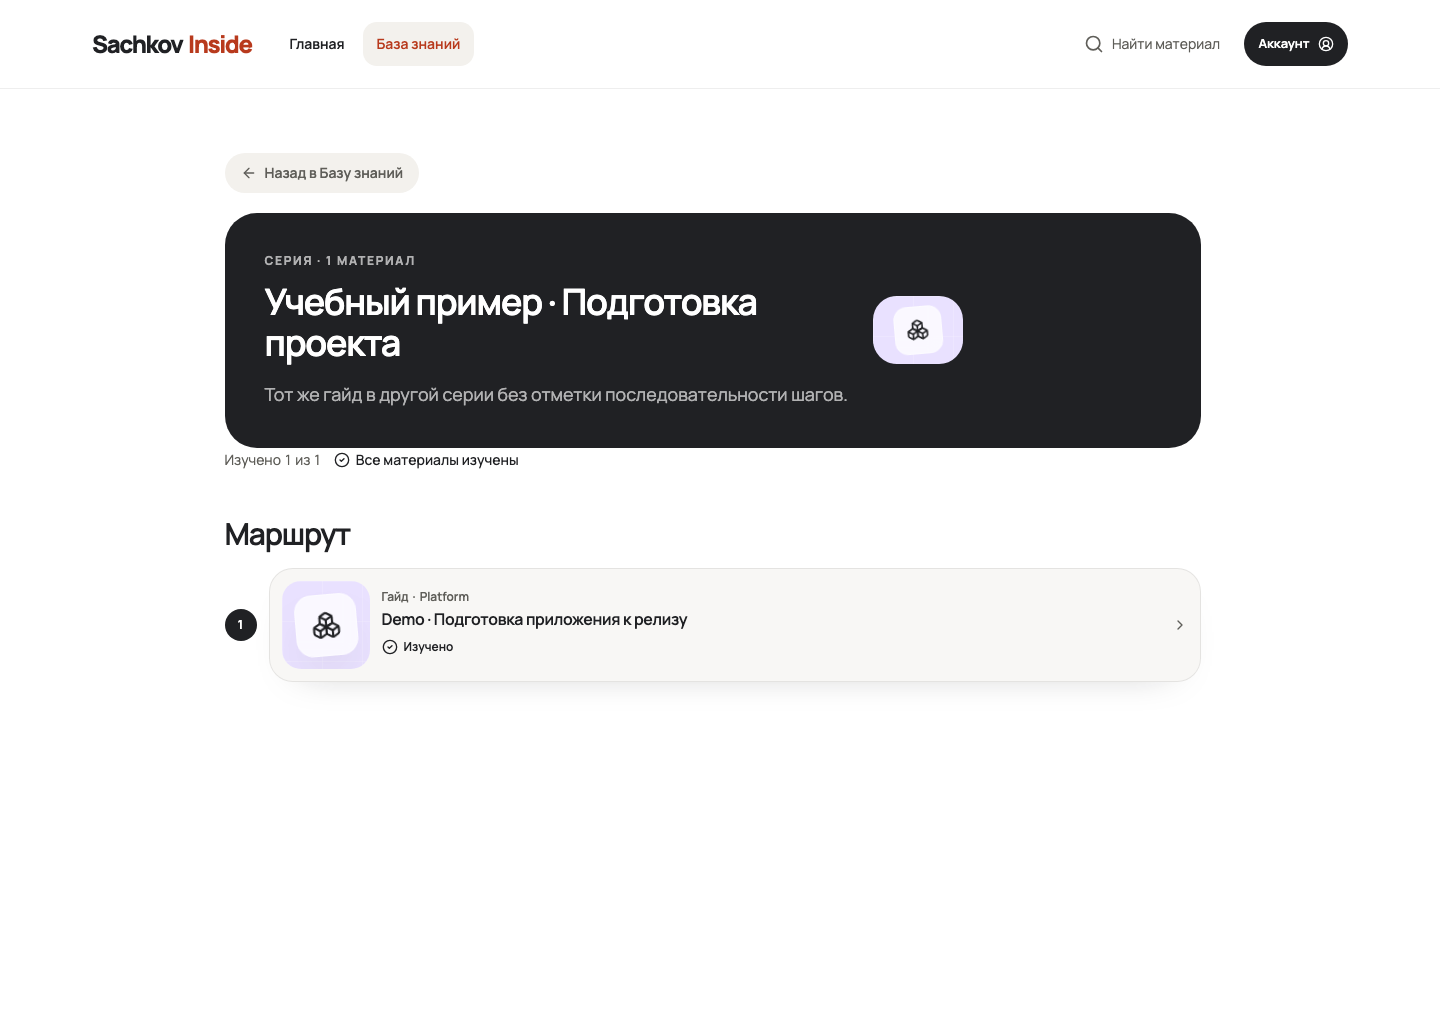
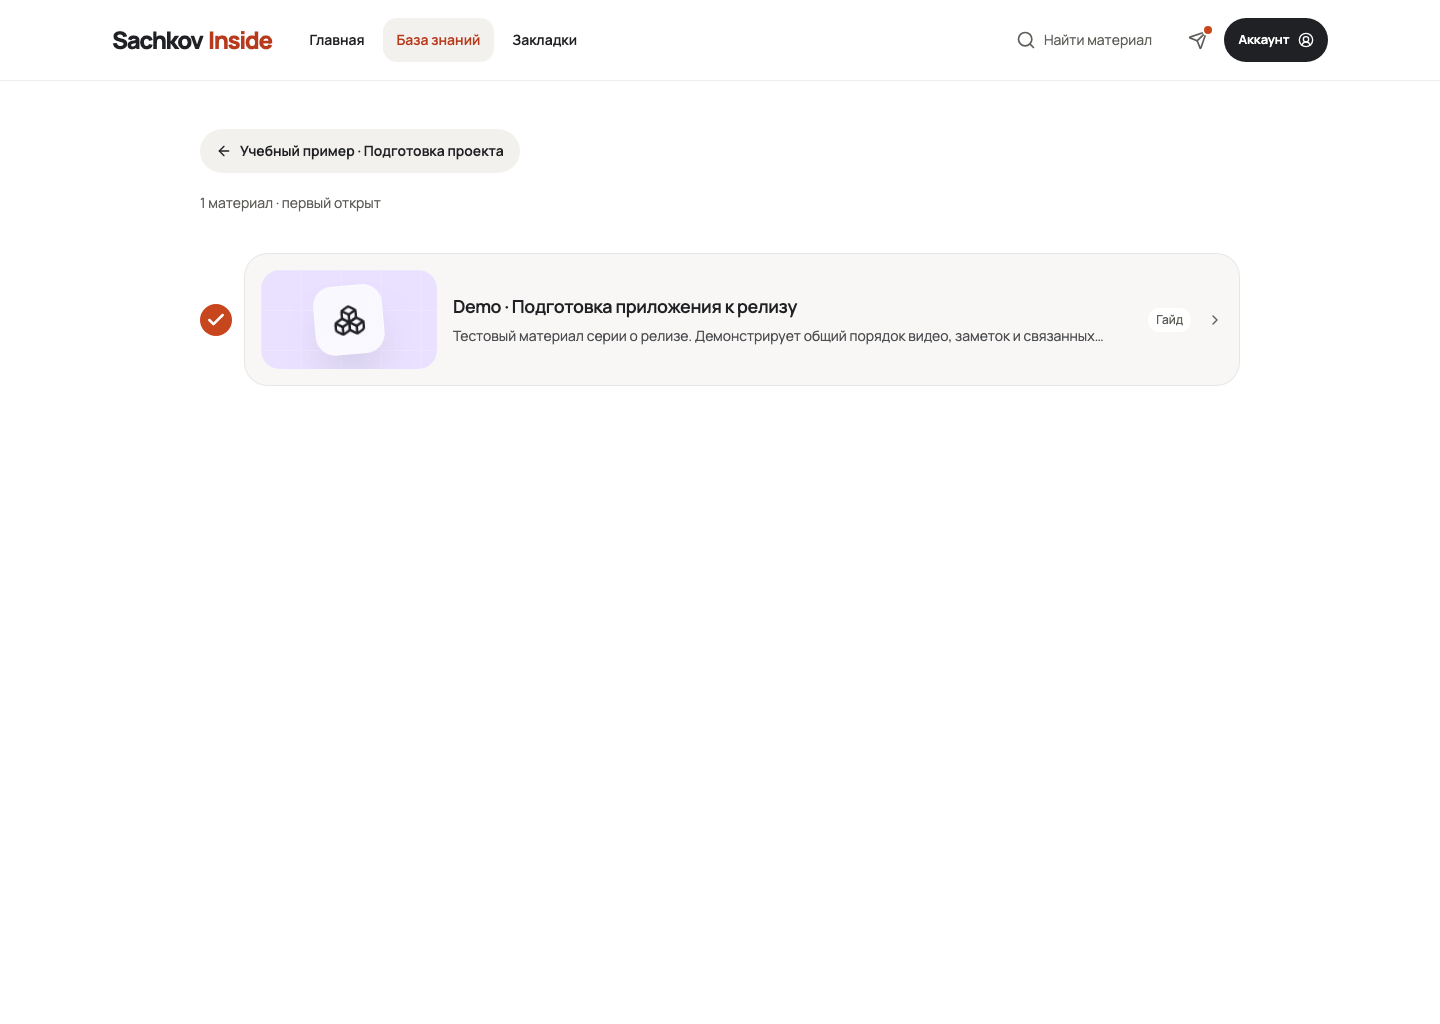
Проверять изученное в маршруте галочкой строки, а не подписью карточки (#529)
В программе руководства отметку показывает галочка вместо номера строки; подписи
«Изучено» на карточке там нет. Сквозная проверка общего материала в двух руководствах
приведена к этому.

Claude-Session: https://claude.ai/code/session_01YSRxmBZJsok1HnGj7wcXDY

diff --git a/apps/web/test/fullstack/reading-progress.spec.ts b/apps/web/test/fullstack/reading-progress.spec.ts
@@ -124,8 +124,9 @@ test("reading progress counts a shared material in both real Series", async ({ p
   // Отметка живёт у материала, поэтому её видно в программе каждого руководства, где он опубликован.
   for (const slug of ["demo-series-release", "demo-series-release-shared"]) {
     await page.goto(`/guides/${slug}/programme`);
-    const card = page.getByRole("article").filter({ has: page.getByRole("link", { name: "Demo · Подготовка приложения к релизу", exact: true }) });
-    await expect(card.locator("[data-material-reading-status]")).toHaveText("Изучено");
+    // В маршруте изученное показывает не подпись на карточке, а галочка вместо номера строки.
+    const row = page.locator('[data-route-material="demo-podgotovka-prilozheniya-k-relizu"]:visible');
+    await expect(row.locator('[data-series-marker-read="true"]')).toHaveCount(1);
     await expect(page.getByRole("main").locator('[data-series-marker-read="true"]')).toHaveCount(1);
     if (slug.endsWith("shared")) {
       await page.screenshot({ path: resolve(directory, `${testInfo.project.name}-series.png`) });
